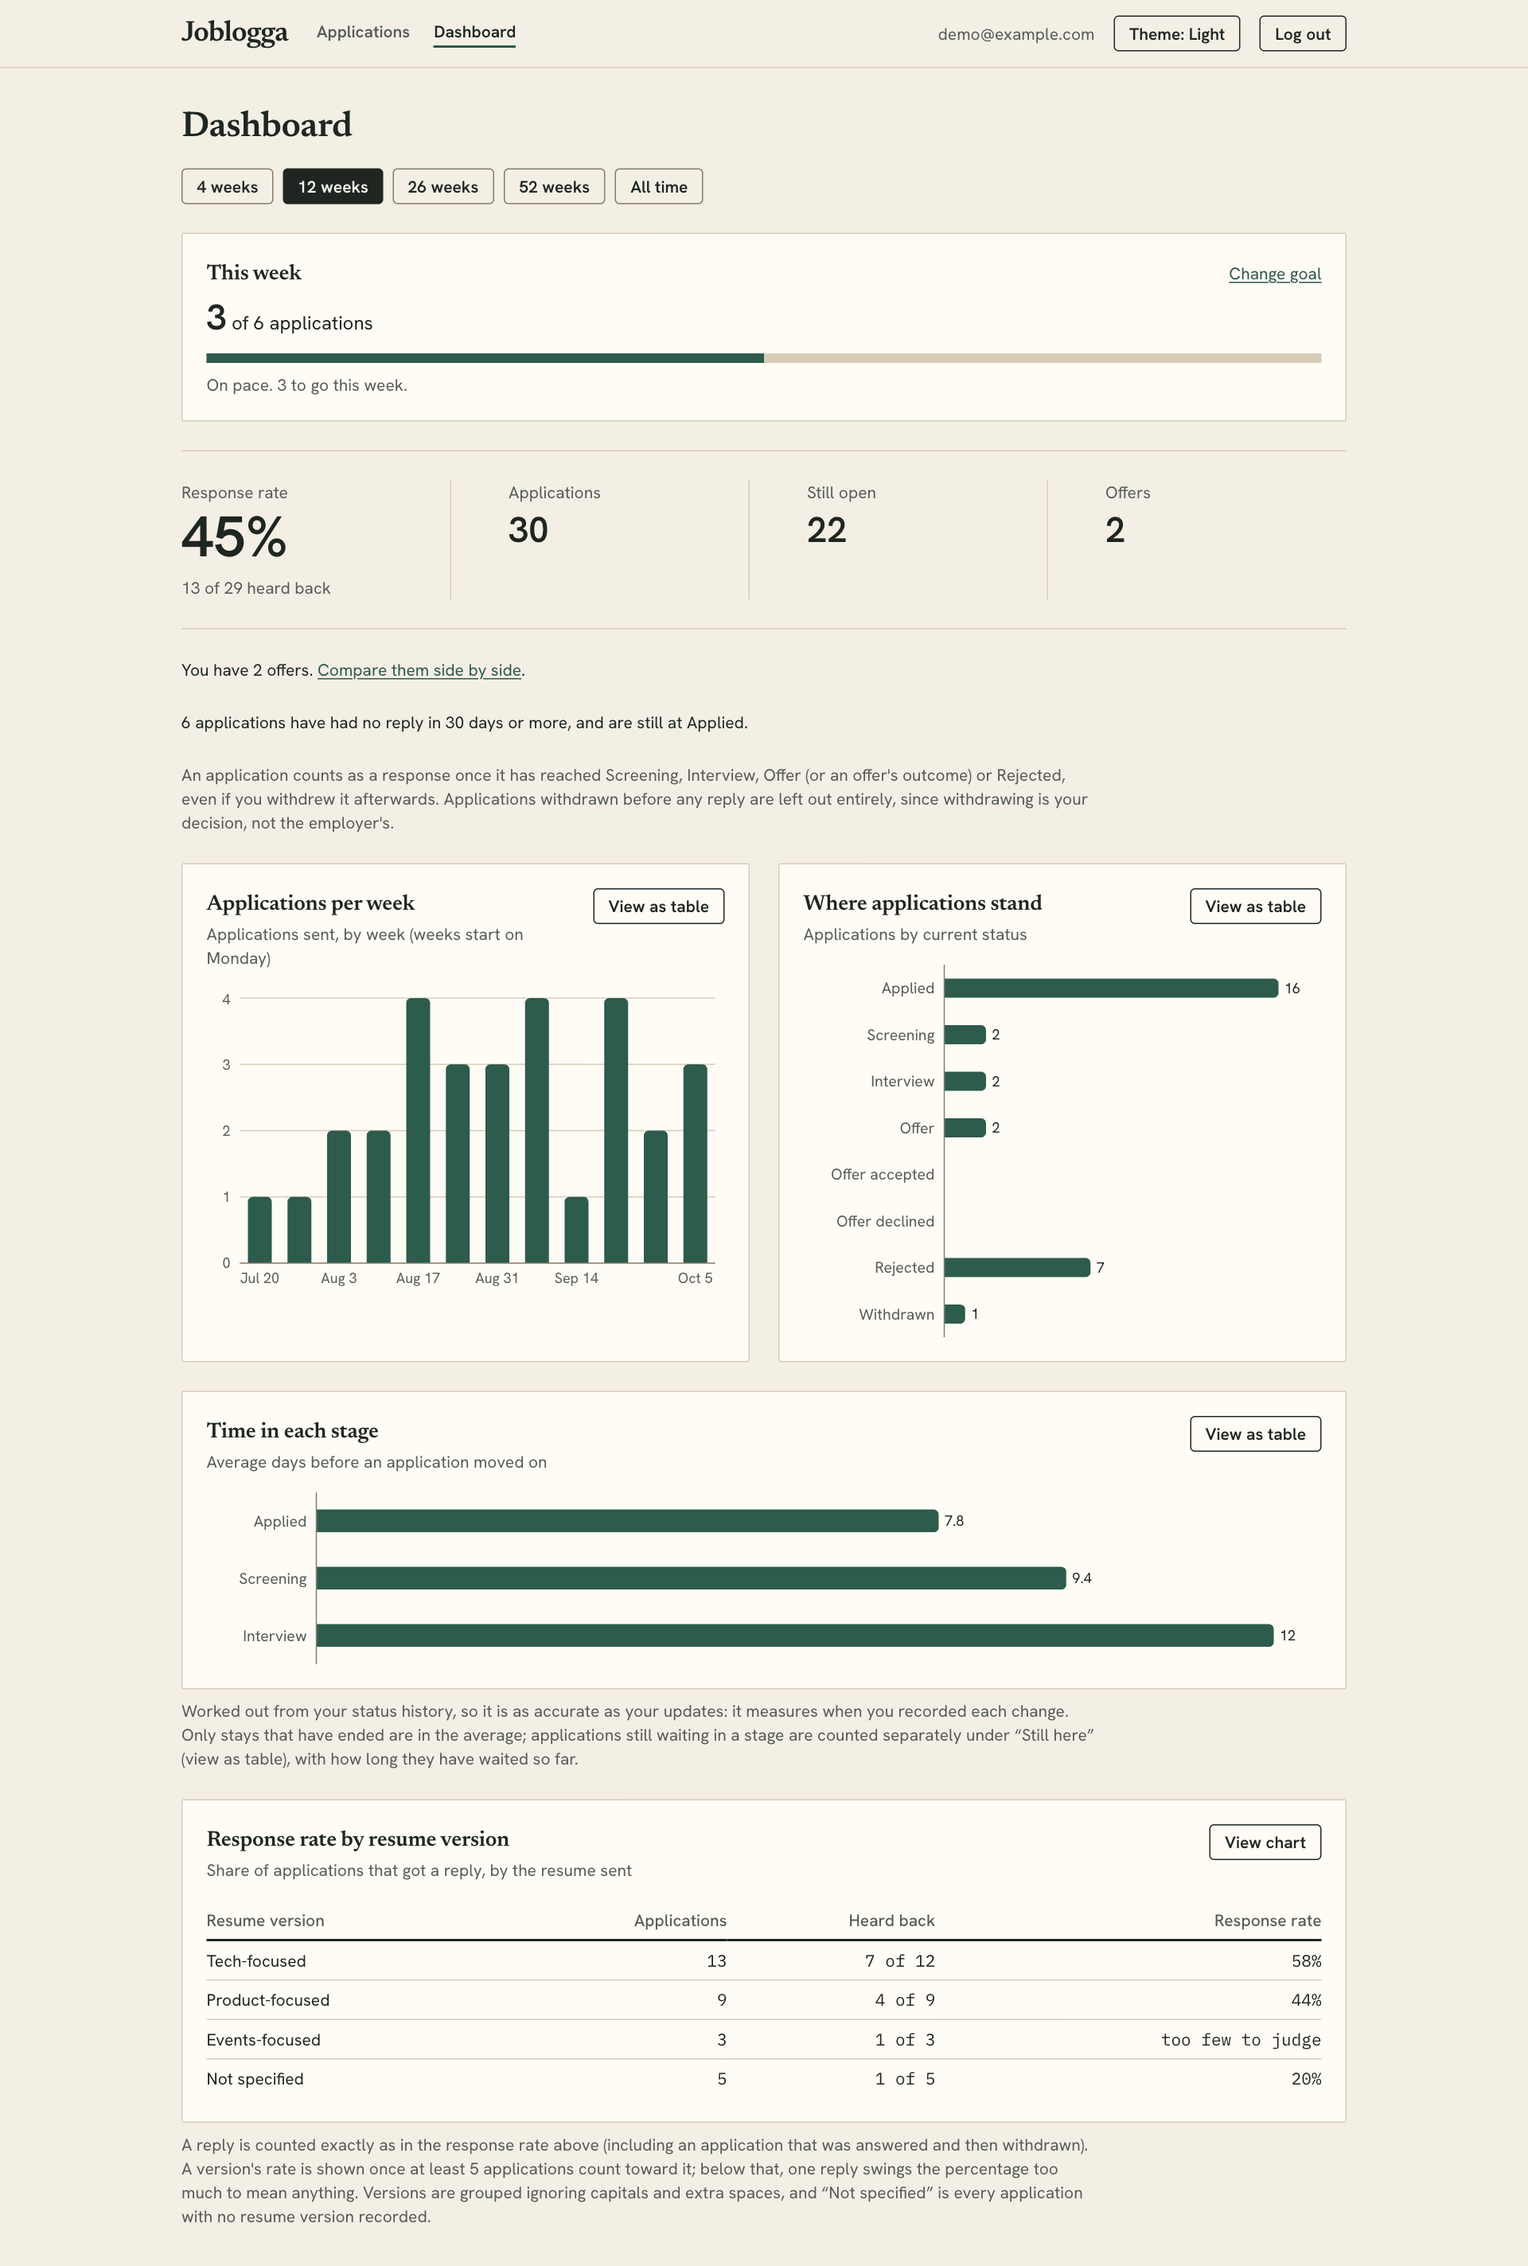
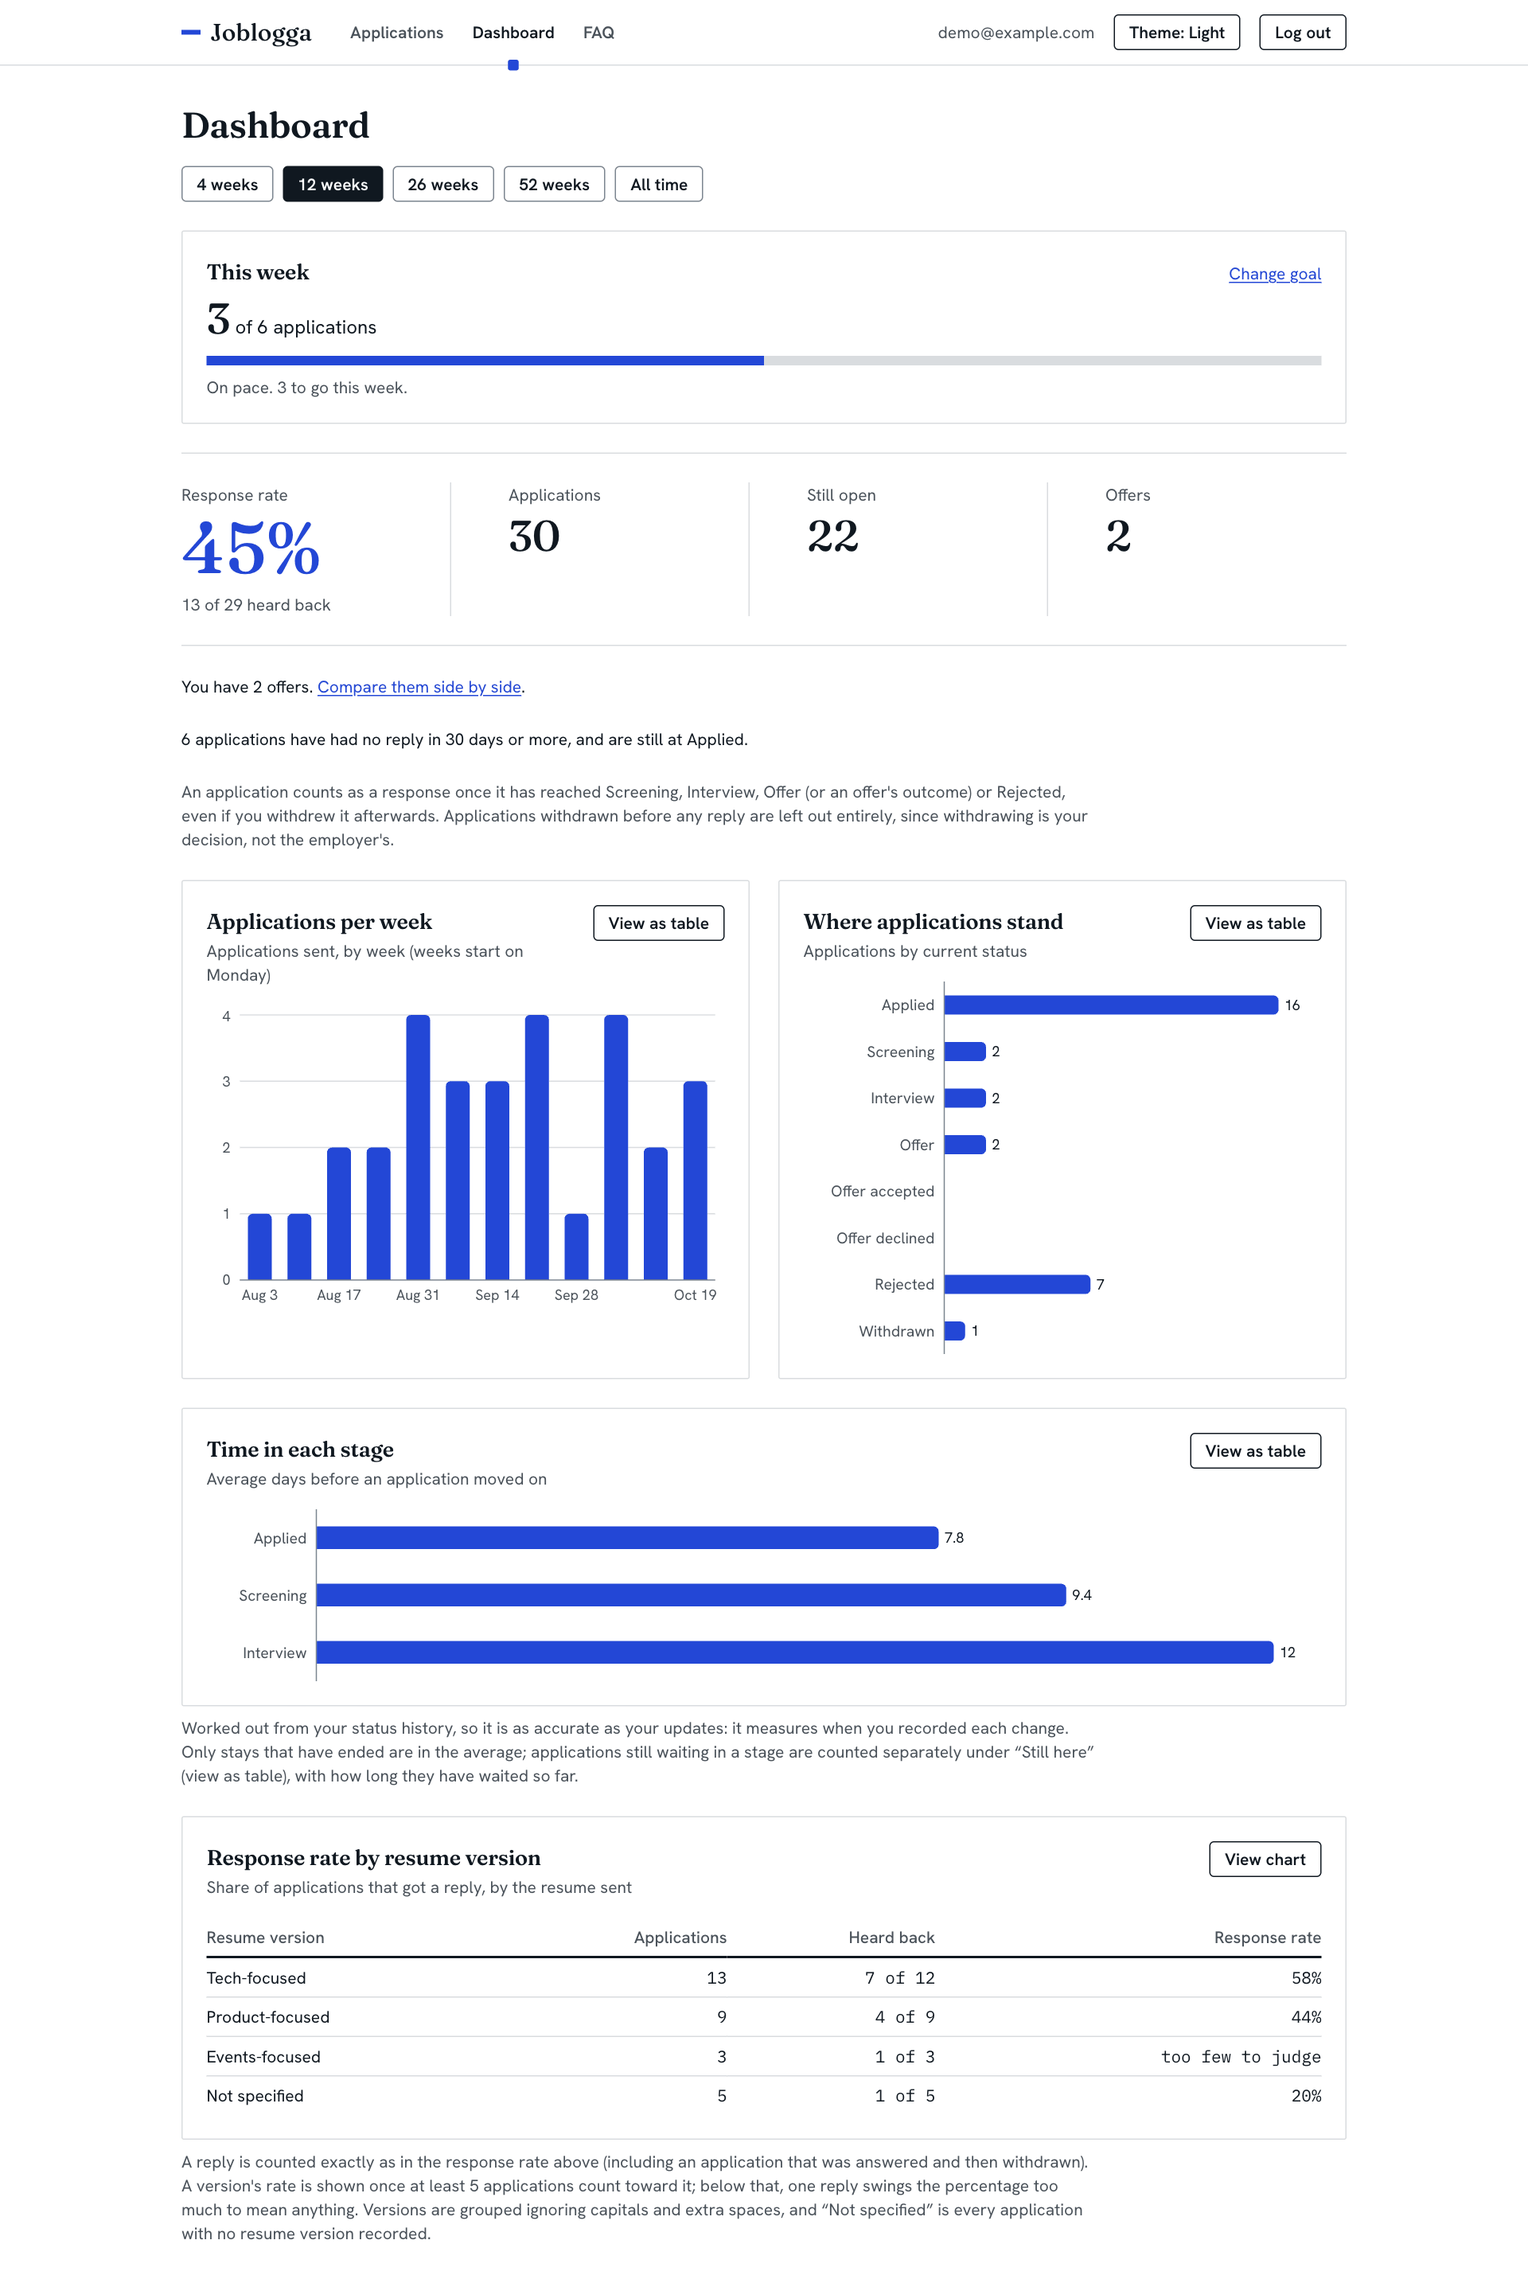
Release v0.2.0: a new look built around lines (#6)
* WIP release: docs, versions, screenshots

* Release v0.2.0: new look built around lines

Refresh README screenshots, update the changelog, README and version numbers.

---------

diff --git a/backend/app/__init__.py b/backend/app/__init__.py
@@ -1,3 +1,3 @@
 # The single place the backend's version is defined (the API reports it in its OpenAPI
 # document at /openapi.json). Keep it in step with frontend/package.json: a test checks.
-__version__ = "0.1.4"
+__version__ = "0.2.0"

diff --git a/README.md b/README.md
@@ -4,11 +4,11 @@ A multi-user job application tracker: log applications, move them through a stat
 
 **Live at [joblogga.dolocozy.com](https://joblogga.dolocozy.com)**
 
-![The Joblogga applications list split down the middle: the left half in the light theme, the right half in the dark theme. A ruled ledger with a stage meter per status, tags, and an overdue follow-up highlighted](docs/screenshots/hero-light-dark.png)
+![The Joblogga applications list split down the middle: the left half in the light theme, the right half in the dark theme. A route per application on a white page, with the overdue follow-up in red](docs/screenshots/hero-light-dark.png)
 
 *Joblogga has a light and a dark theme. It follows your device's setting by default, and a Theme button on every page overrides it. The picture above is one screenshot, light on the left and dark on the right.*
 
-> **Status: v0.1.4, feature-complete for tracking job applications.** Accounts with email verification, password reset and account deletion, application tracking with status history, saved jobs, interview rounds, contacts, tags and archiving, real country and city locations, salary currency, duplicate warnings, CSV export and import, opt-in follow-up reminder emails, search and filters, a weekly goal, a dashboard with response rate, time in each stage and response rate by resume version, an offer comparison, a Kanban board, a light and a dark theme, a public FAQ and login rate limiting are all built, tested and deployed. See [Known limitations](#known-limitations).
+> **Status: v0.2.0, feature-complete for tracking job applications.** Accounts with email verification, password reset and account deletion, application tracking with status history, saved jobs, interview rounds, contacts, tags and archiving, real country and city locations, salary currency, duplicate warnings, CSV export and import, opt-in follow-up reminder emails, search and filters, a weekly goal, a dashboard with response rate, time in each stage and response rate by resume version, an offer comparison, a Kanban board, a light and a dark theme, a public FAQ and login rate limiting are all built, tested and deployed. See [Known limitations](#known-limitations).
 
 *Every screenshot here uses a demo account with fictional data.*
 
@@ -20,7 +20,7 @@ This project is built with [Claude Code](https://claude.com/claude-code) as a de
 
 ## Tech stack
 
-- **Frontend:** React + TypeScript, Vite, Tailwind CSS, Recharts, `@dnd-kit`, self-hosted fonts (Newsreader, Hanken Grotesk, IBM Plex Mono)
+- **Frontend:** React + TypeScript, Vite, Tailwind CSS, Recharts, `@dnd-kit`, self-hosted fonts (Fraunces, Hanken Grotesk, IBM Plex Mono)
 - **Backend:** Python, FastAPI
 - **Database:** SQLAlchemy 2.0 with Alembic migrations; PostgreSQL (Neon) in production, SQLite for local development
 - **Auth:** JWT (PyJWT) + bcrypt, with password reset by email ([Resend](https://resend.com))
@@ -73,11 +73,11 @@ A drop moves the card immediately and puts it back with an error if the server r
 
 Each picture below is shown in your GitHub theme: the light version if GitHub is light, the dark one if it is dark (where a viewer does not support that, the light one is shown). They come from a demo account with made-up companies, seeded by [`docs/screenshots/seed_demo.py`](docs/screenshots/seed_demo.py), and can be retaken after a release by following the [short note beside it](docs/screenshots/README.md).
 
-**Applications list.** A ruled ledger: the stage reached, the place (a city name used in several states, like Springfield or Portland, is told apart by its state), tags, and follow-ups that are due or overdue rise to the top.
+**Applications list.** Each application is a route with four stops, so you see where it stands (and, for a closed one, how far it got) at a glance: the place (a city name used in several states, like Springfield or Portland, is told apart by its state), tags, and follow-ups that are due or overdue rise to the top.
 
 <picture>
   <source media="(prefers-color-scheme: dark)" srcset="docs/screenshots/applications-list-dark.png">
-  <img alt="The applications list: a follow-ups panel with one overdue date highlighted, search and filter controls, and ledger rows each with a stage meter, status, applied date and tags" src="docs/screenshots/applications-list-light.png">
+  <img alt="The applications list: a follow-ups panel with one overdue date in red, search and filter controls, and a row per application with a route of four stops, a status, the applied date and tags" src="docs/screenshots/applications-list-light.png">
 </picture>
 
 **Kanban board.** Drag a card to change its status (mouse, touch or keyboard). The board is a strip of columns that scrolls sideways; six are shown here.
@@ -101,17 +101,17 @@ Each picture below is shown in your GitHub theme: the light version if GitHub is
   <img alt="Two offers compared in columns: a USD offer and a EUR offer, with salary, work mode, location, interview rounds, dates, tags and notes, under a note that the currencies differ" src="docs/screenshots/offers-light.png">
 </picture>
 
-**Landing page.** What it is and who it is for, with the login and a sample logbook page. It looks the same in both themes apart from colour, so there is one picture.
+**Landing page.** What it is and who it is for, with the login and a sample page of routes. It looks the same in both themes apart from colour, so there is one picture.
 
-![The landing page: a headline, a short description, the login form, and a sample page of the logbook with made-up companies](docs/screenshots/landing.png)
+![The landing page: a headline, a short description, three routes, the login form, and a sample page of routes with made-up companies](docs/screenshots/landing.png)
 
 ## Design
 
-The interface is built around lines: every application is a route with four stops (Applied, Screening, Interview, Offer). It is a plain white page with near-black ink, a handful of saturated line colors (cobalt, tangerine, signal green, plum) taken from a transit map, and brick red kept for trouble such as overdue follow-ups. Cobalt is also the color of actions and links. Titles are set in Fraunces, dates and numbers in a monospace so columns line up. The header's bottom rule is the line, and a filled square stop marks the current page. The redesign is landing in phases; the applications list and the remaining screens move over in the following ones.
+The interface is built around lines: every application is a route with four stops (Applied, Screening, Interview, Offer). It is a plain white page with near-black ink, a handful of saturated line colors (cobalt, tangerine, signal green, plum) taken from a transit map, and brick red kept for trouble such as overdue follow-ups. Cobalt is also the color of actions and links. Titles are set in Fraunces, dates and numbers in a monospace so columns line up. The header's bottom rule is the line, and a filled square stop marks the current page. The list, the detail page and the forms, the board, the dashboard and the landing page all use it: a route per application, the status history as a vertical route, and the form as three stops on a line. Each application keeps one line color, picked from its id.
 
 ### Dark mode
 
-A dark theme (the same logbook by lamplight) follows the device's light/dark setting by default and keeps following it, for example at sunset. A **Theme** button in the header of every page, and on the landing and sign-in pages, steps through System, Light and Dark and back round to System, so there is always a way back to following the device; the choice is saved in this browser's `localStorage` only (it is a display preference, not account data, so there is no backend field and it does not follow you between devices). It covers the whole app, the dashboard charts included.
+A dark theme (the same lines at night) follows the device's light/dark setting by default and keeps following it, for example at sunset. A **Theme** button in the header of every page, and on the landing and sign-in pages, steps through System, Light and Dark and back round to System, so there is always a way back to following the device; the choice is saved in this browser's `localStorage` only (it is a display preference, not account data, so there is no backend field and it does not follow you between devices). It covers the whole app, the dashboard charts included.
 
 How it works, and why it is not a pile of `dark:` variants: every colour in the app already comes from a handful of design tokens (`frontend/src/index.css`), and the charts read the same tokens, so dark mode is a second set of values for those tokens under `html.dark`, set by `frontend/src/theme.ts`. Nothing can be missed on one screen, because no screen has its own colours. The `dark:` variant is still enabled for anything that ever needs one. A small script in `index.html` applies the saved or system choice before the page paints so a dark-mode reader never sees a flash of light; a test runs that script against the app's own logic so the two cannot drift. The dark palette keeps the light one's standard (text 4.5:1 or better, control borders 3:1), checked by a test that reads the stylesheet, which also fails if a colour is added without a dark value or a chart hard-codes one. Line colors are graphics, so they are checked at 3:1.
 
@@ -127,7 +127,7 @@ The rules that keep it from looking generic are enforced by a test (`frontend/sr
 | `/verify-email` | Where the verification link in the signup email lands (open to everyone) |
 | `/faq` | Frequently asked questions, in plain language (open to everyone, logged in or not) |
 | `/account` | Who you are, email reminders, the weekly goal, CSV export and import, and deleting your account |
-| `/applications`, `/applications/new`, `/applications/:id` | Your applications, as a ledger list, a Kanban board (`?view=board`), or the jobs you have saved but not applied to (`?view=saved`) |
+| `/applications`, `/applications/new`, `/applications/:id` | Your applications, as a list of routes, a Kanban board (`?view=board`), or the jobs you have saved but not applied to (`?view=saved`) |
 | `/dashboard` | Response rate and charts |
 | `/offers` | Your offers side by side (linked from the dashboard once you have two) |
 

diff --git a/CHANGELOG.md b/CHANGELOG.md
@@ -2,6 +2,26 @@
 
 Versions follow [semantic versioning](https://semver.org). Details of the reasoning behind each change are in the README and in `docs/`.
 
+## v0.2.0
+
+### Changed
+
+- **A new look, built around lines.** Every application is now drawn as a route with four stops (Applied, Screening, Interview, Offer): a solid line to where it is, a dashed one beyond it, and a larger stop for now. The applications list, the board cards and the detail page all show it, and a closed application keeps the stop it reached (a rejected one ends in a brick-red empty square). The status dropdown stays under the route, so changing a status is still one click and works from the keyboard. Each application has one line color (cobalt, tangerine, signal green or plum), picked from its id so it never changes.
+- **White page, new palette.** The warm paper background is now plain white. Cobalt is the color of actions and links, brick red is kept for trouble (overdue, rejected, delete), and the yellow highlight is gone: an overdue follow-up is brick-red text with the word "overdue". There is a new night palette for dark mode. Every text pairing is still checked at 4.5:1 and the line colors at 3:1, in both themes, by a test.
+- **New type.** Titles and headline figures are set in Fraunces, which replaces Newsreader. Hanken Grotesk and IBM Plex Mono stay.
+- **A route header.** The header's bottom rule is the line, and a filled square stop marks the current page.
+- **Detail page and forms.** The status history is a vertical route, newest on top. The add and edit form is three stops on a line (The job, Where it stands, Labels and notes); the fields, validation and inline messages are the same, with status, dates and resume now sitting together.
+- **Dashboard and board.** Headline figures are set large in the title serif, the response rate in cobalt. Board cards carry their route. Charts stay one color, since the line colors identify applications, not stages.
+- **Landing page.** Three decorative routes draw in under the intro (not at all for people who ask for less motion), the sample page uses the route column, and the four stages are stops on a line.
+
+### Added
+
+- Applications carry a `furthest_stage` (0 to 4), worked out from their status history, so a closed application can show how far it got. It is loaded in one extra query for the list and is not stored.
+
+### Not changed
+
+- Navigation names (Applications, Dashboard, FAQ), URLs, and every feature and rule from v0.1.4. There are no database migrations.
+
 ## v0.1.4
 
 ### Added
